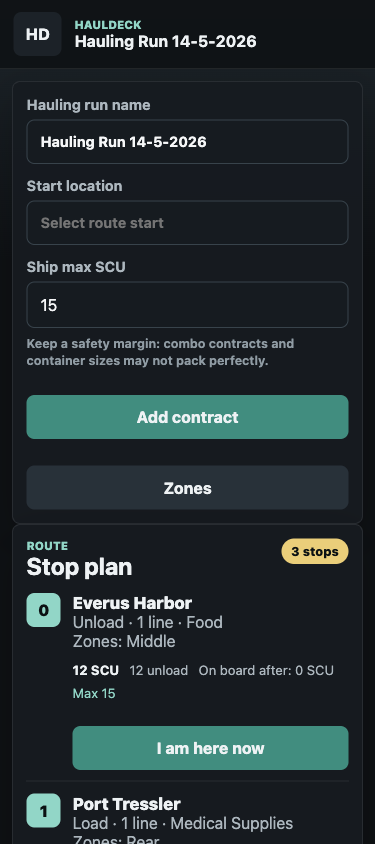
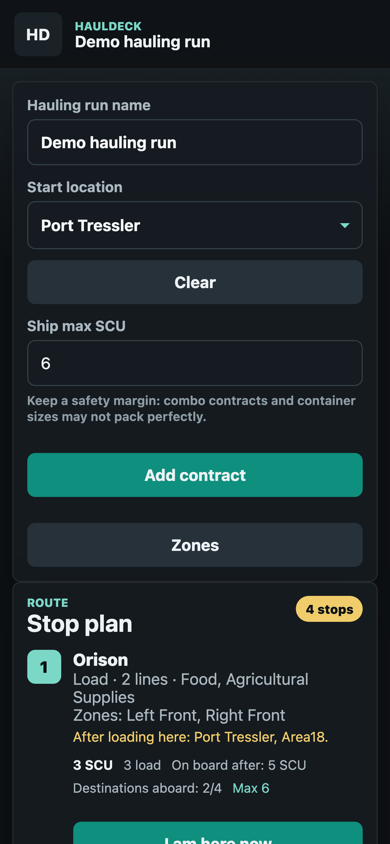
Refresh README screenshots and usage docs

diff --git a/README.md b/README.md
@@ -1,6 +1,6 @@
 # HaulDeck
 
-HaulDeck is an offline-first cargo run organizer for Star Citizen hauling contracts. It helps you stack multiple contracts in one run without mixing cargo for different destinations.
+HaulDeck is an offline-first cargo run organizer for Star Citizen hauling contracts. It helps you combine multiple hauling contracts into one practical run while keeping destinations, ship zones, loading steps, and unloading steps clear.
 
 The app is intended as a personal in-game companion. It runs entirely in the browser as a static GitHub Pages app. There is no backend, login, or cloud sync.
 
@@ -19,18 +19,28 @@ HaulDeck was built with AI assistance. The code, UI iterations, route planner lo
 - Tracks commodity, SCU amount, destination, and ship zone per cargo line
 - Builds a stop plan with pickup and delivery stops
 - Accounts for ship max SCU when planning the route
+- Accounts for the configured number of cargo zones when deciding what can be carried together
 - Discourages unnecessary jumps in multi-system routes
 - Shows expected SCU on board after each stop
-- Lets you mark load/unload actions per location
+- Defers split deliveries when it is better to collect all cargo for the same destination first
+- Groups loading actions per contract so station inventory totals are easier to match
+- Groups unloading actions per ship zone so the main instruction is the physical zone to clear
+- Uses color-coded zones across loading, unloading, contracts, and zone settings
 - Collapses delivered contracts under completed contracts
 - Stores runs locally in the browser with IndexedDB
 - Runs as a static PWA with no build step
 
 ## Screenshots
 
-| Deck and stop plan | Stop actions | Add contract |
+Mobile screenshots from a sample hauling run:
+
+| Home | Deck and stop plan | Add contract |
 | --- | --- | --- |
-| ![Mobile deck stop plan](docs/screenshots/mobile-deck-stop-plan.png) | ![Mobile location actions](docs/screenshots/mobile-location-actions.png) | ![Mobile add contract](docs/screenshots/mobile-add-contract.png) |
+| ![Mobile home run list](docs/screenshots/mobile-home.png) | ![Mobile deck stop plan](docs/screenshots/mobile-deck-stop-plan.png) | ![Mobile add contract](docs/screenshots/mobile-add-contract.png) |
+
+| Loading actions | Unloading actions | Zone settings |
+| --- | --- | --- |
+| ![Mobile loading actions](docs/screenshots/mobile-loading-actions.png) | ![Mobile unloading actions](docs/screenshots/mobile-unloading-actions.png) | ![Mobile zone settings](docs/screenshots/mobile-zones.png) |
 
 ## How To Use
 
@@ -38,11 +48,14 @@ HaulDeck was built with AI assistance. The code, UI iterations, route planner lo
 2. Optionally set a start location. New contracts use this as the default pickup location.
 3. Set `Ship max SCU` if you want the route planner to respect your cargo capacity.
 4. Add contracts with `Add contract`.
-5. Add one or more cargo lines per contract.
-6. Review the `Stop plan`.
-7. Tap `I am here now` when you arrive at a stop.
-8. Complete unload actions first, then load actions.
-9. Return to the deck to see the next stop.
+5. Add one or more cargo lines per contract. Pickup is shared by the contract; each cargo line has its own commodity, SCU amount, destination, and zone.
+6. Use `Zones` to review or adjust which ship zone belongs to each destination.
+7. Review the `Stop plan`.
+8. Tap `I am here now` when you arrive at a stop.
+9. Unload first when the page shows unload actions, then load the contracts listed for that location.
+10. Return to the deck to see the next stop.
+
+When loading, HaulDeck intentionally groups work by contract. In-game station inventory often shows only totals, so it is safest to pull one contract at a time from the cargo elevator, or only combine contracts that share the same destination.
 
 ## Route Planning
 
@@ -52,9 +65,31 @@ The route planner uses a practical heuristic. It tries to:
 - Plan pickup stops before their deliveries
 - Avoid obvious repeated visits
 - Stay within the configured ship max SCU
+- Stay within the configured cargo zone count, so the plan does not require more simultaneous destination stacks than your ship layout supports
+- Delay unloading at the current location when more cargo for that same destination can be collected first
 - Heavily penalize inter-system jumps so Stanton/Pyro/Nyx routes do not jump back and forth unnecessarily
 
 This is not a distance-based or quantum-route optimizer. There is no real distance matrix yet. The current planner is meant to be a practical checklist that helps prevent forgotten cargo, mixed stacks, and premature delivery stops.
+
+## Cargo Zones
+
+HaulDeck assumes a zone should normally hold cargo for one destination. Zones are color-coded throughout the app:
+
+- Load cards show the target zone color and name.
+- Unload actions are grouped by zone, with one `Mark zone unloaded` action for the whole zone.
+- Individual unload lines still have `-`, `+`, and `All` controls for corrections.
+- The route planner can adjust the route when too many destinations would need to be on board at once.
+
+The default layout is four zones: `Left Front`, `Right Front`, `Left Rear`, and `Right Rear`. You can rename them in the `Zones` screen.
+
+## Catalog Data
+
+HaulDeck includes local JSON catalogs for:
+
+- Stanton, Pyro, and Nyx cargo locations
+- Common hauling commodities, including entries such as `Agricultural Supplies` and `Carbon`
+
+The catalogs are intentionally local and editable in `public/data/locations.json` and `public/data/commodities.json`.
 
 ## Hosting
 
@@ -89,6 +124,7 @@ No npm install, build step, or server-side runtime is required.
 - Runs are stored locally in IndexedDB.
 - Nothing is sent to a server by the app.
 - Catalog data lives in `public/data/locations.json` and `public/data/commodities.json`.
+- Installed PWA versions may cache aggressively on iOS; reopening through Safari can help pick up a fresh service worker after updates.
 
 ## Project Structure
 